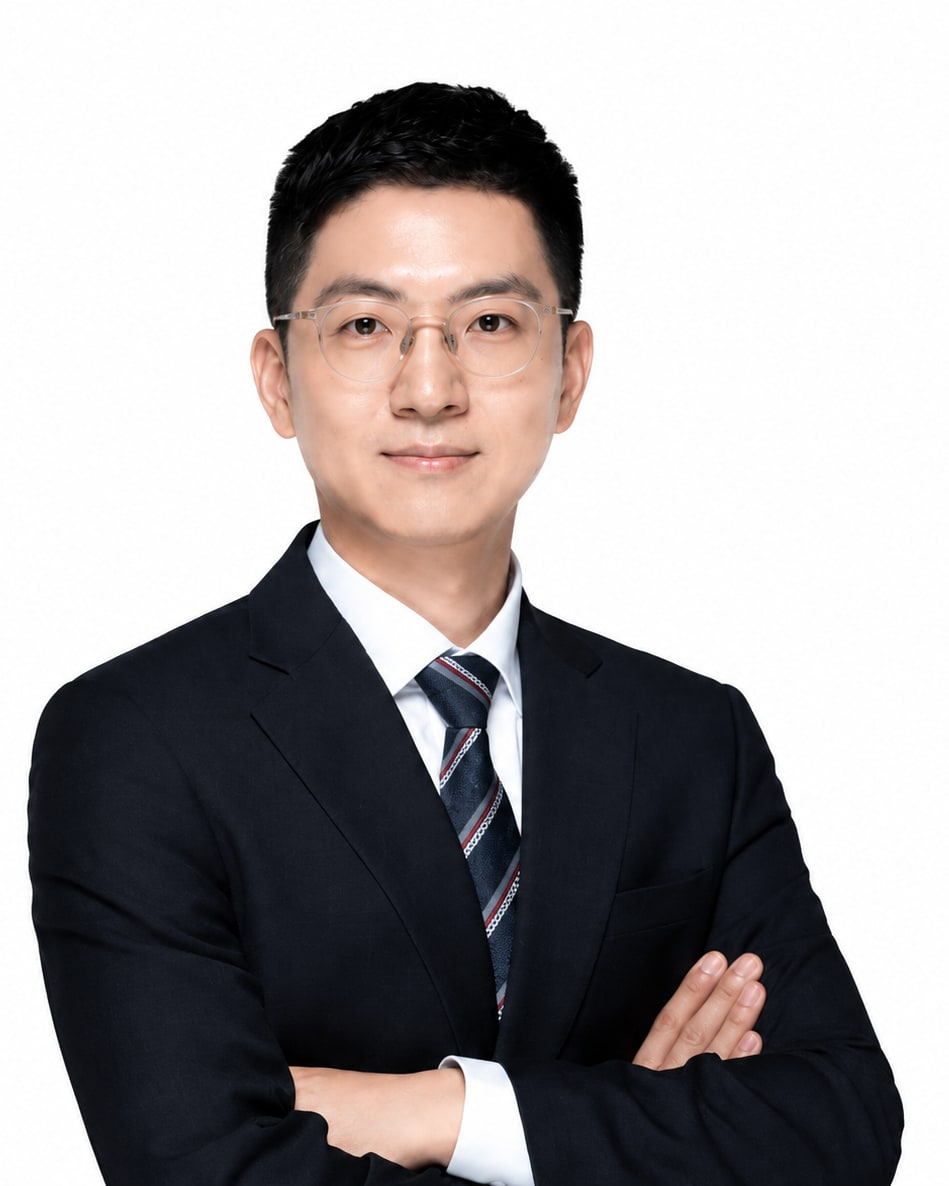
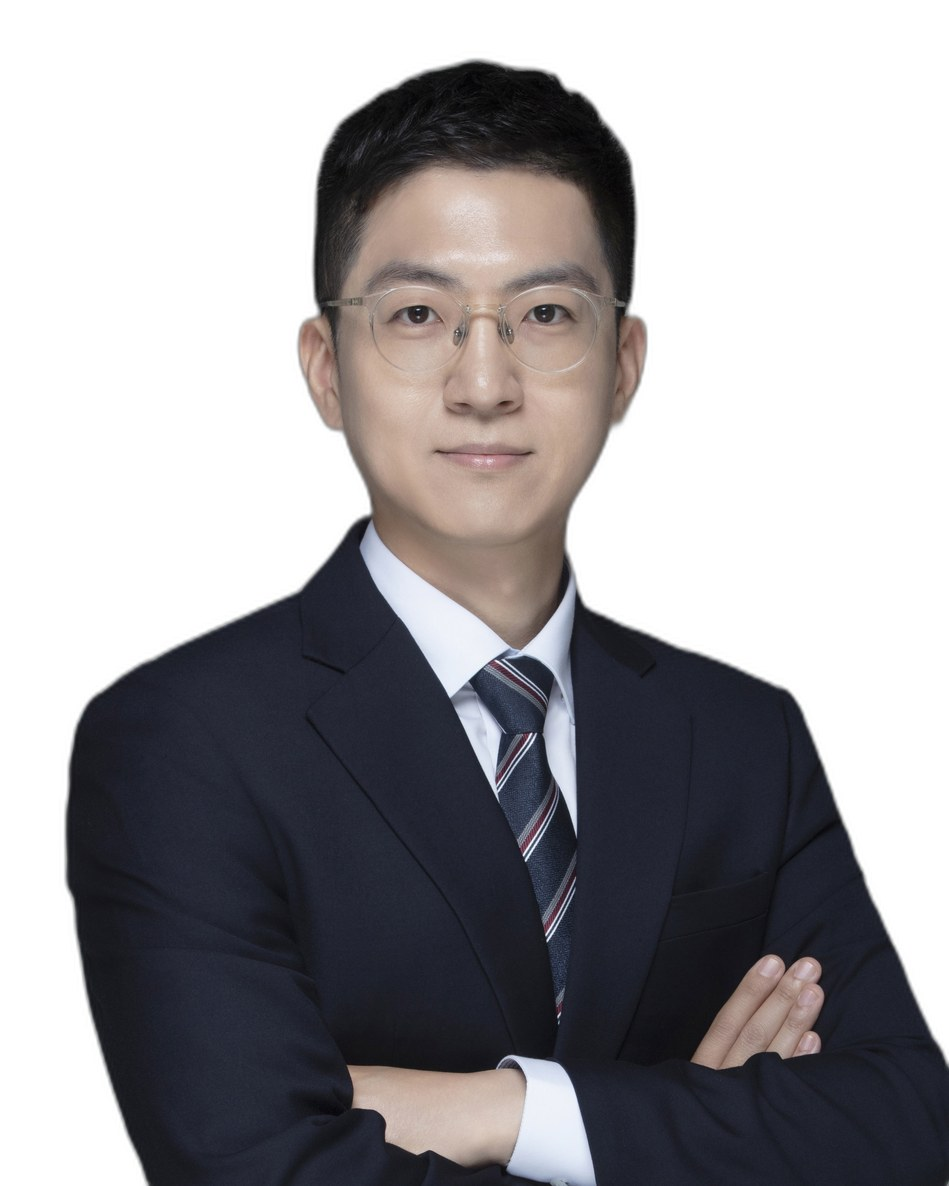
유연 변호사 수정요청서 12건 반영 · 사진 교체 · Supabase 연동 정상화
260823 수정요청서(유연 → 최병근)의 문언 수정 12건과 초상 사진 교체를 반영했다.
문구는 CV 정본(260813_유연_CV_경력기술서.html)을 고치고 import-cv.mjs 로 재생성했다.

문언
  01 경력 서술 — 사내 변리사로 읽히던 표현을 "주 고객으로 한 … 근무" 로
  02 수행사건 146 → 149건 (04 특허분쟁 · 05 특허자문 · 13 약국의료 각 1건 추가)
     배지·"외 N건" 은 목록 길이에서 계산되므로 함께 맞는다
  03 부록 601·608 중복 게시 행 통합, 내부 관리 메모 제거
  04 의뢰인 특정 소지 표현 4건 익명화 (변리사법 §23 · CV 익명화 원칙)
  05 손해배상 금액 표현 삭제 2곳
  06 겸장 → 이중 자격        07 권리를 재고 → 권리를 세우며
  08 기게시 → 이미 게시된     09 제척 기간 → 제척기간
  10 문의 폼 기본값 문구       11 전부 기각 → 신청 전부 기각 · 방어 성공
  12 문의 폼에 "약국 · 의료" 분야 추가

사진
  납품본 5개로 교체하고, 목록에 없던 파생본 3개(sq-480 · sq-960.webp)는
  새 sq-960.jpg 에서 같은 설정으로 다시 만들었다.
  ⚠ assets/유연상반신.png 는 아직 옛 사진이다 — build-portrait.mjs 를
     그대로 돌리면 되돌아간다. 새 원본 PNG 를 받아 교체해야 한다.

Supabase
  seed-supabase.mjs 결함 2건 수정
    · seedProfile 이 TS 객체를 그대로 펼쳐 camelCase 로 넣던 것을 snake_case 로 매핑
    · timeline · practice_areas 시딩 함수가 아예 없던 것을 추가
  create-admin.mjs 신규 — 스키마 주석과 .env.example 이 가리키지만 없던 스크립트.
    Auth 관리자 계정 생성(재실행 시 비밀번호 갱신)과 schema.sql 의 admin_uid 채우기.
  schema.sql 의 admin_uid 를 실제 관리자 uid 로 교체.

검증: 빌드 130페이지 정상, 신규 문구 14개 · 구 문구 11개 소멸 확인.
RLS 실측 — anon 은 콘텐츠 읽기와 문의 접수만 되고 수정·문의 열람은 막힘,
관리자는 수정과 문의 열람·상태 변경 가능.

Claude-Session: https://claude.ai/code/session_01LBZNDiiddpoxmY7fr6S8FD

diff --git a/src/data/profile.ts b/src/data/profile.ts
@@ -28,7 +28,7 @@ export const profile = {
 
   /** 02 전문분야 리드 — 정본 문구 */
   creed:
-    "엔지니어의 눈으로 기술을 읽고, 변리사의 손으로 권리를 재고, 변호사의 무기로 다툽니다. 도면·명세서·소스코드를 직접 해독해야 승패가 갈리는 분쟁에 강점이 있습니다.",
+    "엔지니어의 눈으로 기술을 읽고, 변리사의 손으로 권리를 세우며, 변호사의 무기로 다툽니다. 도면·명세서·소스코드를 직접 해독해야 승패가 갈리는 분쟁에 강점이 있습니다.",
 
   intro: [
     "2010년 제46회 변리사시험에 합격하고 특허법인 신성에서 7년간 반도체 설계 전문 변리사로 일했습니다. DRAM·플래시메모리·SSD 등 반도체 설계 핵심기술의 국내·해외 특허를 200건 이상 출원했고, 고객사와 함께 전략특허를 개발하고 자율주행 기술의 특허전략을 지원했습니다.",
@@ -41,7 +41,7 @@ export const profile = {
     { v: "서울대", k: "전기공학부 (엔지니어 출신)" },
     { v: "수석 졸업", k: "성균관대 법학전문대학원" },
     { v: "7년", k: "변리사 재직 (2010~2017)" },
-    { v: "이중 자격", k: "변호사 · 변리사 겸장" },
+    { v: "이중 자격", k: "변호사 · 변리사 이중 자격" },
   ],
 
   /** 홈 랜딩 보조 지표 — CV 03·15 근거 */

diff --git a/src/app/cv/page.tsx b/src/app/cv/page.tsx
@@ -10,7 +10,7 @@ import { writings, publishedCases } from "@/data/cases";
 export const metadata: Metadata = {
   title: "CV · 경력기술서",
   description:
-    "유연 변호사·변리사 경력기술서 — 학력·자격·경력, 특허 실무 이력, 수행사건 146건, 저술·연재·강연, 대외활동.",
+    "유연 변호사·변리사 경력기술서 — 학력·자격·경력, 특허 실무 이력, 수행사건 149건, 저술·연재·강연, 대외활동.",
 };
 
 /**
@@ -144,7 +144,7 @@ export default async function CvPage() {
             </ul>
           </Block>
 
-          <Block no="17" title="부록 — 홈페이지 기게시 성공사례">
+          <Block no="17" title="부록 — 홈페이지에 이미 게시된 성공사례">
             <div className="tbl-wrap">
               <table className="tbl">
                 <thead>

diff --git a/src/app/contact/page.tsx b/src/app/contact/page.tsx
@@ -79,8 +79,8 @@ export default async function ContactPage() {
                 <div className="disclaimer">
                   <p>
                     <strong>※ 접수 안내</strong> 문의 접수는 상담 회신을 위한 것으로, 접수
-                    자체가 위임계약의 성립이나 법률자문의 제공을 뜻하지 않습니다. 소멸시효·제척
-                    기간 등 기한이 임박한 사안은 전화로 먼저 연락해 주십시오.
+                    자체가 위임계약의 성립이나 법률자문의 제공을 뜻하지 않습니다. 소멸시효·제척기간 등
+                    기한이 임박한 사안은 전화로 먼저 연락해 주십시오.
                   </p>
                 </div>
               </div>

diff --git a/src/app/admin/page.tsx b/src/app/admin/page.tsx
@@ -11,7 +11,7 @@ const PANELS = [
   { href: "/admin/profile", label: "프로필 · 연락처", note: "이름·소개·연락처·지표", ready: false },
   { href: "/admin/timeline", label: "학력 · 자격 · 경력", note: "연혁 3종", ready: false },
   { href: "/admin/practice", label: "업무분야", note: "6개 분야 · 태그", ready: false },
-  { href: "/admin/cases", label: "수행사건", note: "146건 · 결과 표기", ready: false },
+  { href: "/admin/cases", label: "수행사건", note: "149건 · 결과 표기", ready: false },
   { href: "/admin/notes", label: "기업법 노트", note: "119편 · 발행 여부", ready: false },
   { href: "/admin/inquiries", label: "상담 문의", note: "접수함", ready: false },
 ];

diff --git a/src/data/career.ts b/src/data/career.ts
@@ -63,7 +63,7 @@ export const career: TimelineItem[] = [
 
 /** 03 특허 · 기술 실무 이력 (변리사 재직기) */
 export const patentPractice: string[] = [
-  "국내 대형 반도체 제조사의 반도체 설계 전문 변리사로 7년간 재직",
+  "국내 대형 반도체 제조사를 주 고객으로 한 반도체 설계 전문 변리사로 7년간 근무",
   "DRAM · 플래시메모리 · SSD 등 반도체 설계 핵심기술의 국내·해외 특허 200건 이상 출원",
   "고객사와 협업한 전략특허 개발, 자율주행 기술 특허전략 지원",
   "NFT 관련 기술의 특허출원 자문 및 출원",

diff --git a/src/components/InquiryForm.tsx b/src/components/InquiryForm.tsx
@@ -12,6 +12,7 @@ const CATEGORIES = [
   "직무발명 · 기술거래 · IP 실사",
   "기업법무 · 계약 분쟁",
   "가상자산 · 개인정보 · 기타",
+  "약국 · 의료",
 ];
 
 export default function InquiryForm() {
@@ -35,7 +36,7 @@ export default function InquiryForm() {
       <label className="field">
         <span>문의 분야</span>
         <select className="select" name="category" defaultValue="">
-          <option value="">선택하지 않음</option>
+          <option value="">선택해 주세요</option>
           {CATEGORIES.map((c) => (
             <option key={c} value={c}>
               {c}

diff --git a/src/app/cases/page.tsx b/src/app/cases/page.tsx
@@ -52,7 +52,7 @@ export default async function CasesPage() {
           <div className="section-head">
             <div>
               <span className="folio">부록</span>
-              <h2>법무법인 리브로 홈페이지 기게시 성공사례</h2>
+              <h2>법무법인 리브로 홈페이지에 이미 게시된 성공사례</h2>
             </div>
           </div>
           <div className="tbl-wrap">
